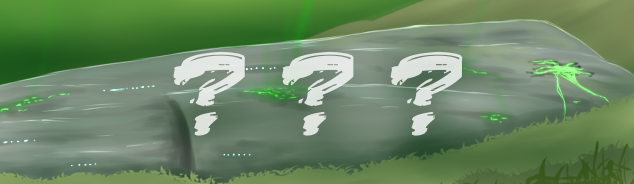
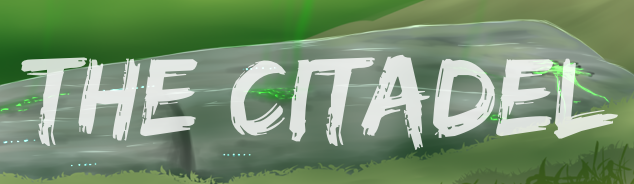
Add Citdel lore page.

Changed region(s): [[0.03, 0.2717, 0.989, 0.8152]]

diff --git a/src/components/lore/places/kuserra/Citadel.vue b/src/components/lore/places/kuserra/Citadel.vue
@@ -1,0 +1,41 @@
+<template>
+  <article class="mt-8 prose max-w-none">
+    <h2>The Citadel</h2>
+    <p>
+      In the center of Kuserra, there stands a massive, mysterious structure
+      with architecture starkly different from the surrounding wreckage.
+      Whatever befell the region during the Catastrophe seems to have left the
+      structure largely unscathed, though several massive, gaping wounds in its
+      walls continue to glow and leak some mysterious chemicals. A long time
+      ago, people started calling this structure the Citadel, because it
+      resembled an impregnable fortress of unknown function.
+    </p>
+    <p>
+      What purpose the Citadel once served is anyone’s guess. Some believe it to
+      be a massive tomb for the Ancestors, a marker for their final resting
+      place or perhaps the fortress from which they made their last stand before
+      civilization fell to ruin. There are some who view it as a religious
+      monument, and some have even suggested it was a vehicle of some sort, but
+      most people generally regard the Citadel to be little more than a
+      curiosity. To most, it is useful as a massive landmark by which one can
+      orient themself in the city, and little else.
+    </p>
+    <p>
+      While some have been inspired to make the difficult attempt to reach the
+      Citadel, nearly everyone that returns comes back empty-handed, complaining
+      loudly about what a wasted effort the journey was. There are rumors that
+      the Citadel is filled with treasure and watts beyond one’s wildest
+      imagination, but that the Citadel itself is completely impenetrable,
+      protected by some form of powerful magic barrier that prevents anyone from
+      even touching it.
+    </p>
+  </article>
+</template>
+
+<script>
+export default {
+  name: 'Citadel',
+}
+</script>
+
+<style scoped></style>

diff --git a/src/components/SiteNav.vue b/src/components/SiteNav.vue
@@ -1,6 +1,14 @@
 <template>
   <nav
-    class="flex flex-col justify-between items-center w-full my-2 px-4 md:flex-row"
+    class="
+      flex flex-col
+      justify-between
+      items-center
+      w-full
+      my-2
+      px-4
+      md:flex-row
+    "
   >
     <patreon-link></patreon-link>
     <div class="mt-2 md:mt-0 text-size-md text-primary font-bold">
@@ -12,9 +20,21 @@
       <span class="px-2 text-gray-600">|</span>
       <router-link class="hover:text-white relative group" to="/lore"
         >Lore
-        <!--        <span-->
-        <!--          class="absolute top-0 right-0 inline-block h-2 w-2 -mt-0.5 -mr-1.5 rounded-full bg-pink-800 group-hover:bg-white"-->
-        <!--        ></span>-->
+        <span
+          class="
+            absolute
+            top-0
+            right-0
+            inline-block
+            h-2
+            w-2
+            -mt-0.5
+            -mr-1.5
+            rounded-full
+            bg-pink-800
+            group-hover:bg-white
+          "
+        ></span>
       </router-link>
     </div>
   </nav>

diff --git a/src/components/lore/places/Kuserra.vue b/src/components/lore/places/Kuserra.vue
@@ -31,16 +31,21 @@
       <h2 class="text-center">Locations Within Kuserra</h2>
     </article>
     <div
-      class="grid grid-cols-1 justify-items-center justify-center gap-4 mt-6 md:grid-cols-3"
+      class="
+        grid grid-cols-1
+        justify-items-center justify-center
+        gap-4
+        mt-6
+        md:grid-cols-3
+      "
     >
       <div>
         <section-button
-          path="/lore/places/kuserra/unknown"
+          path="/lore/places/kuserra/citadel"
           style="max-width: 300px"
           :img="require('@/assets/lore/lore-locations-citadel.png')"
           alt="Citadel"
           small
-          disabled
         />
       </div>
       <div>

diff --git a/src/router.js b/src/router.js
@@ -41,6 +41,13 @@ export default new Router({
                 ),
             },
             {
+              path: 'citadel',
+              component: () =>
+                import(
+                  /* webpackChunkName: "lore" */ './components/lore/places/kuserra/Citadel'
+                ),
+            },
+            {
               path: 'unknown',
               component: Unknown,
             },
